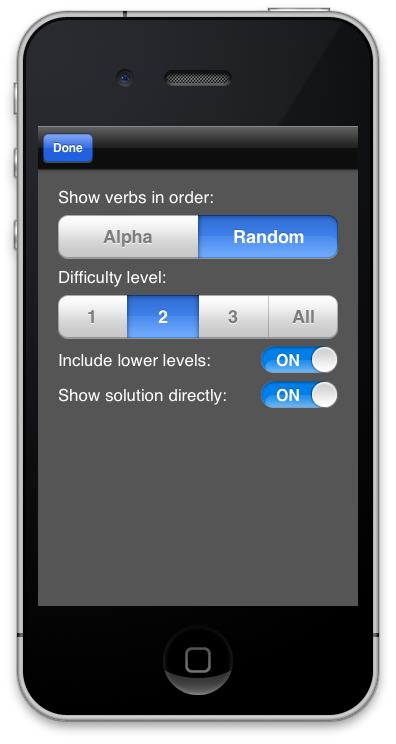
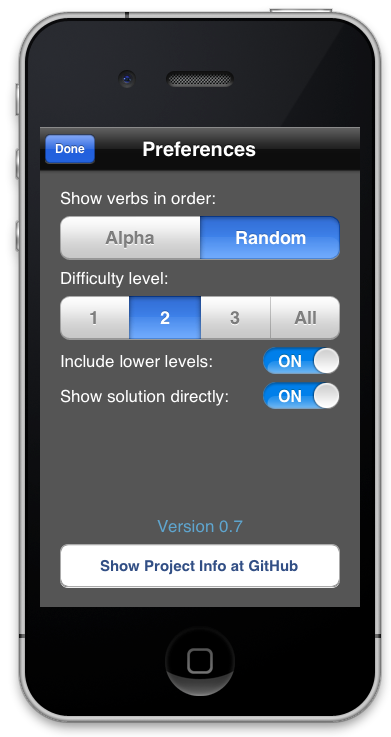
doc info

Changed region(s): [[0.0307, 0.0, 0.9821, 0.9986], [0.4297, 0.0936, 0.5831, 0.1248], [0.3069, 0.0936, 0.3376, 0.1248]]

diff --git a/IrregularVerbs/PreferencesViewController.h b/IrregularVerbs/PreferencesViewController.h
@@ -18,6 +18,7 @@
 
 @property (weak, nonatomic) IBOutlet UISegmentedControl *segmentedDifficultyLevel;
 @property (weak, nonatomic) IBOutlet UISwitch *switchShowSameTime;
+@property (weak, nonatomic) IBOutlet UILabel *aboutLabel;
 @property (weak, nonatomic) IBOutlet UISwitch *switchLowerLevels;
 @property (weak, nonatomic) id <PreferencesViewControllerDelegate> delegate;
 @property (nonatomic, weak) IBOutlet UISegmentedControl *segmentedSortControl;

diff --git a/IrregularVerbs/PreferencesViewController.m b/IrregularVerbs/PreferencesViewController.m
@@ -29,6 +29,9 @@
 - (void)viewDidLoad
 {
     [super viewDidLoad];
+    
+    [self.aboutLabel setText:[NSString stringWithFormat:@"Version %@",[[[NSBundle mainBundle] infoDictionary] objectForKey:@"CFBundleShortVersionString"]] ];
+    
 	// set the segmented control current state
     if([[NSUserDefaults standardUserDefaults] boolForKey:@"randomOrder"]){
         [self.segmentedSortControl setSelectedSegmentIndex:1];

diff --git a/README.md b/README.md
@@ -28,4 +28,4 @@ You can contact us at:
 
 ## Screenshot
 ![Screenshot](https://raw.github.com/osrufung/irregularverbs/master/screenshot.png)
-![Screenshot](https://raw.github.com/rbarbera/irregularverbs/master/preferences.png)
+![Screenshot](https://raw.github.com/osrufung/irregularverbs/master/preferences.png)
